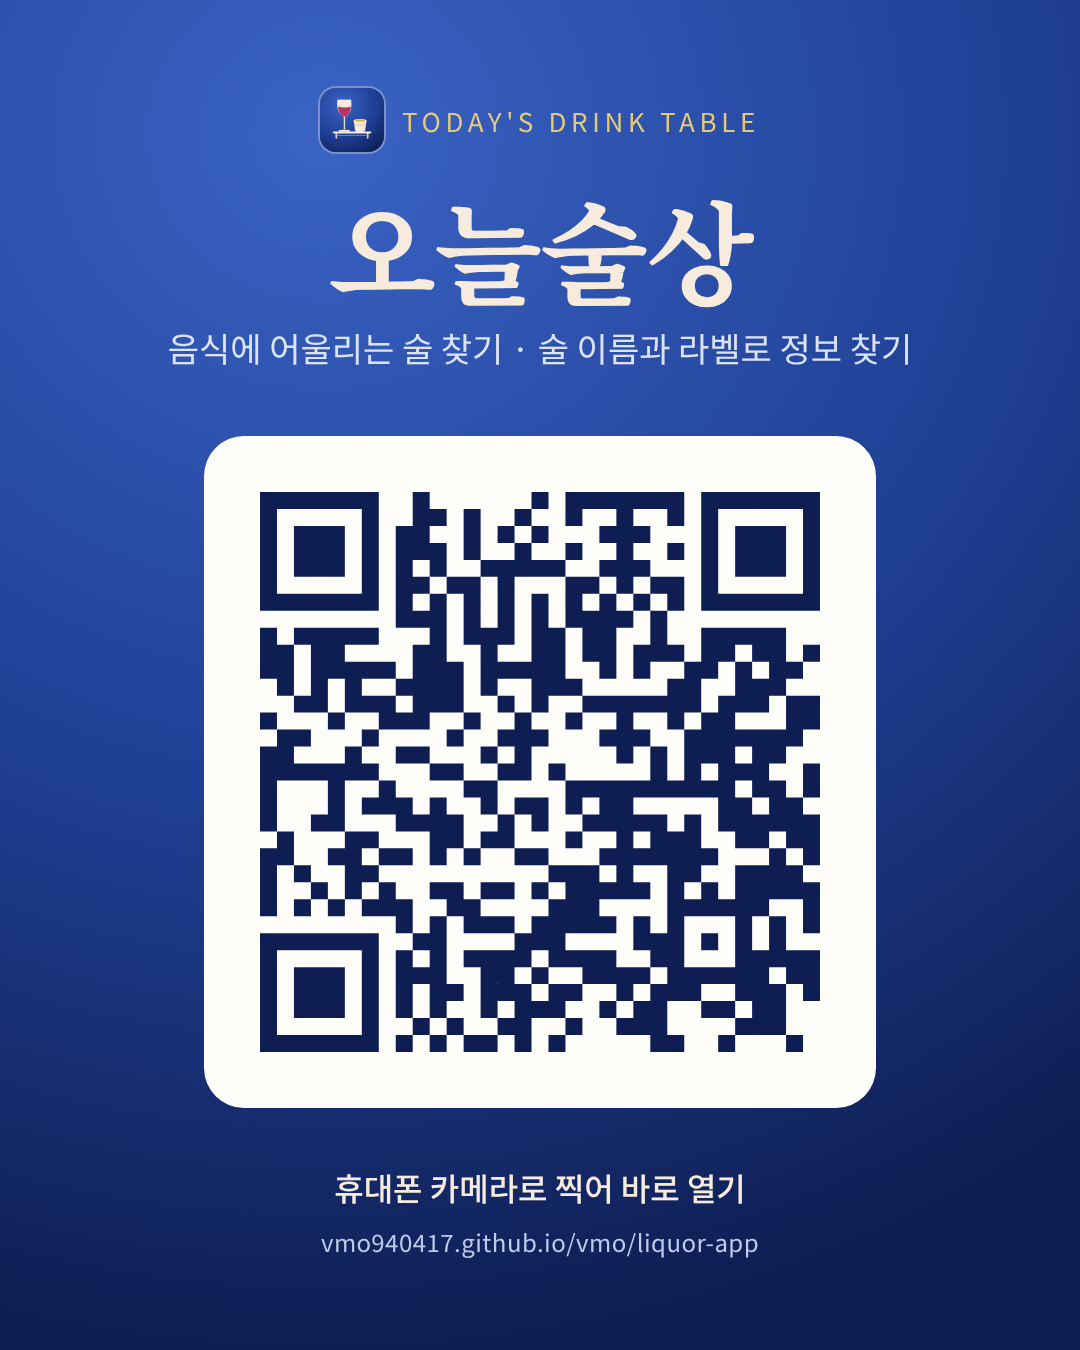
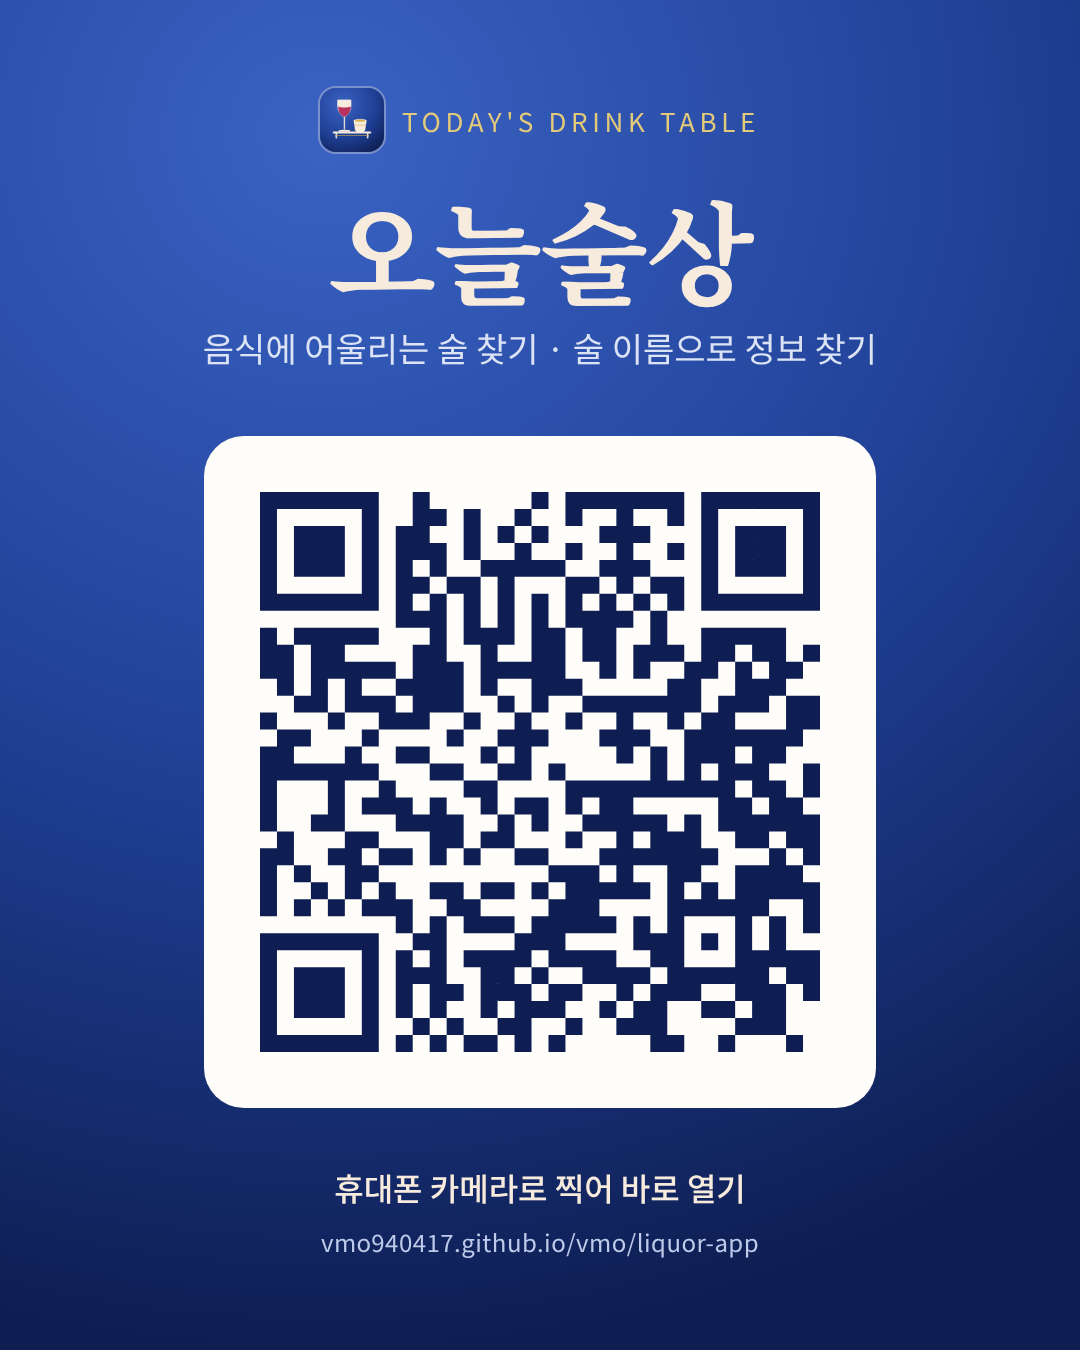
이사 안내·QR 카드에서 라벨 사진 검색 문구 삭제
Claude-Session: https://claude.ai/code/session_01N82sr8kE2DoGo1pBbA8bXp

Changed region(s): [[0.1528, 0.2489, 0.8556, 0.28]]

diff --git a/web/moved.html b/web/moved.html
@@ -93,7 +93,7 @@
     <ul>
       <li><span class="mark">✓</span><span><b>음식으로 술 찾기</b><small>와인·사케·위스키·꼬냑·중국술·전통주 54가지 스타일을 점수 순으로</small></span></li>
       <li><span class="mark">✓</span><span><b>실제 제품까지 바로</b><small>추천 스타일을 누르면 수록된 3,600여 종 중 해당 술이 나와요</small></span></li>
-      <li><span class="mark">✓</span><span><b>술 이름·라벨 사진으로 검색</b><small>초성 검색, 라벨 글자 읽기, 구글 렌즈, 시세와 평가</small></span></li>
+      <li><span class="mark">✓</span><span><b>술 이름으로 정보 찾기</b><small>초성·한영일중 이름 검색, 설명, 시세와 평가</small></span></li>
     </ul>
   </section>
 
